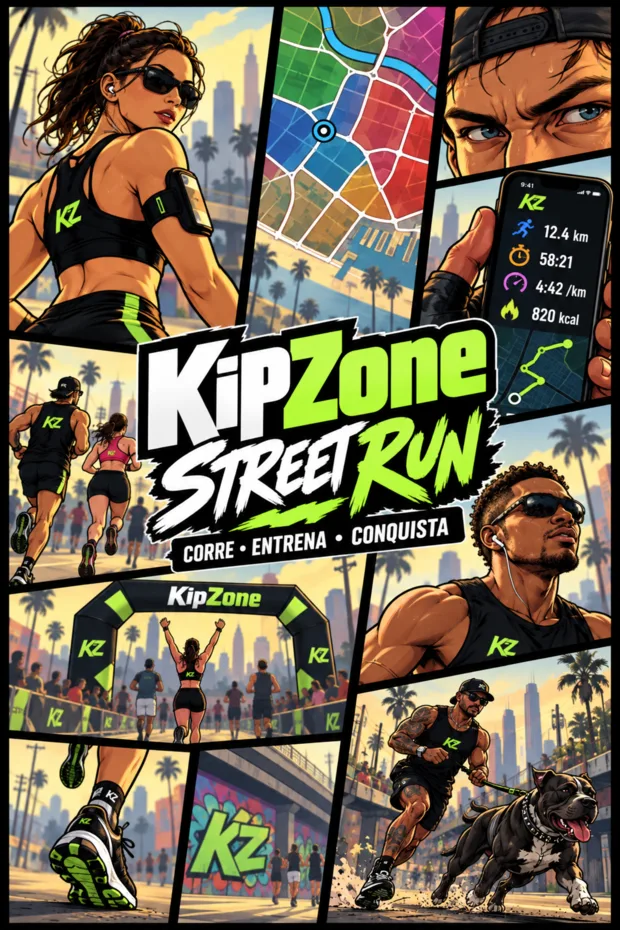
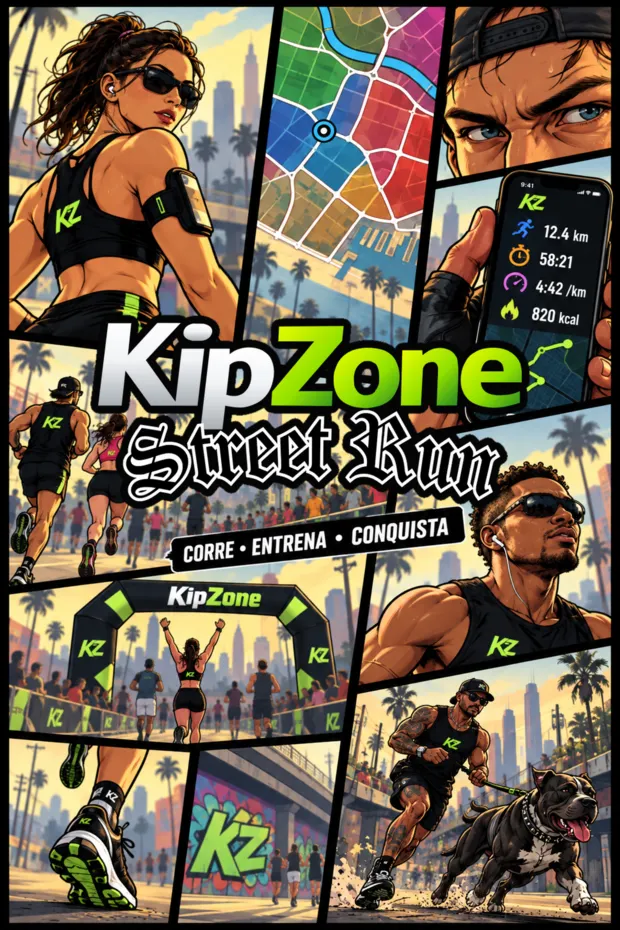
Renueva la captura y el póster de la portada

Changed region(s): [[0.1226, 0.3118, 0.8581, 0.5925]]

diff --git a/index.html b/index.html
@@ -9,14 +9,14 @@
   <link rel="canonical" href="https://kipzone.run/">
   <meta property="og:title" content="KipZone Street Run | Conquista tu ciudad corriendo">
   <meta property="og:description" content="Roba territorio. Defiende tu barrio. Entrena como los noruegos.">
-  <meta property="og:image" content="https://kipzone.run/assets/street-run-collage.webp">
+  <meta property="og:image" content="https://kipzone.run/assets/street-run-collage.webp?v=2">
   <link rel="icon" href="/favicon.ico?v=20260902-3" sizes="any">
   <link rel="apple-touch-icon" href="/favicon.png?v=20260902-3">
   <link rel="preconnect" href="https://fonts.googleapis.com">
   <link rel="preconnect" href="https://fonts.gstatic.com" crossorigin>
   <link rel="stylesheet" href="https://fonts.googleapis.com/css2?family=Barlow+Condensed:ital,wght@1,900&amp;family=DM+Sans:wght@400..800&display=swap">
-  <link rel="stylesheet" href="style.css?v=street-run-7">
-  <script src="script.js?v=street-run-7" defer></script>
+  <link rel="stylesheet" href="style.css?v=street-run-8">
+  <script src="script.js?v=street-run-8" defer></script>
 </head>
 <body>
   <svg class="icon-symbols" xmlns="http://www.w3.org/2000/svg" aria-hidden="true">
@@ -59,12 +59,12 @@
           <p>Roba territorio. Defiende tu barrio. Entrena como los noruegos.</p>
         </div>
         <div class="hero-art">
-          <img class="collage" src="assets/street-run-collage.webp" width="620" height="930" alt="">
+          <img class="collage" src="assets/street-run-collage.webp?v=2" width="620" height="930" alt="">
           <figure class="iphone hero-phone">
             <span class="side-controls" aria-hidden="true"></span>
             <div class="iphone-screen">
-              <img src="assets/street-run-jugar.webp" width="760" height="1468" fetchpriority="high"
-                alt="Pantalla Jugar de KipZone con territorios en el mapa, una misión y el botón Correr">
+              <img src="assets/street-run-jugar.webp?v=2" width="760" height="1468" fetchpriority="high"
+                alt="Pantalla Jugar de KipZone con territorios verdes en el mapa y el botón Correr">
               <span class="island" aria-hidden="true"></span>
               <span class="home-indicator" aria-hidden="true"></span>
             </div>

diff --git a/style.css b/style.css
@@ -231,8 +231,8 @@ h3 { font-size: 1.65rem; }
 .scroll-motion .hero-phone { transform: translateY(calc(var(--scroll, 0) * 36px)); }
 .collage {
   position: absolute;
-  inset: auto 3% 12% auto;
-  width: min(46%, 200px);
+  inset: auto 2% 10% auto;
+  width: min(51%, 226px);
   transform: translateY(calc(var(--scroll, 0) * -52px)) rotate(calc(9deg + var(--scroll, 0) * 8deg));
   border: 3px solid #0c0d09;
   border-radius: 7px;
@@ -460,7 +460,7 @@ h3 { font-size: 1.65rem; }
   .hero h1 { font-size: clamp(5.15rem, 10.4vw, 9rem); }
   .hero-art { align-self: end; width: 100%; padding-top: 0; }
   .hero-phone { width: min(64%, 286px); margin-right: 18%; }
-  .collage { inset: auto 2% 13% auto; width: min(49%, 238px); }
+  .collage { inset: auto 1% 11% auto; width: min(55%, 272px); }
   .capture-layout, .training-layout { grid-template-columns: minmax(0, .86fr) minmax(0, 1.14fr); }
   .capture-extras { grid-template-columns: 1fr 1fr; }
   .has-motion .territory-phone { width: min(260px, calc((100svh - 120px) * .46)); }
